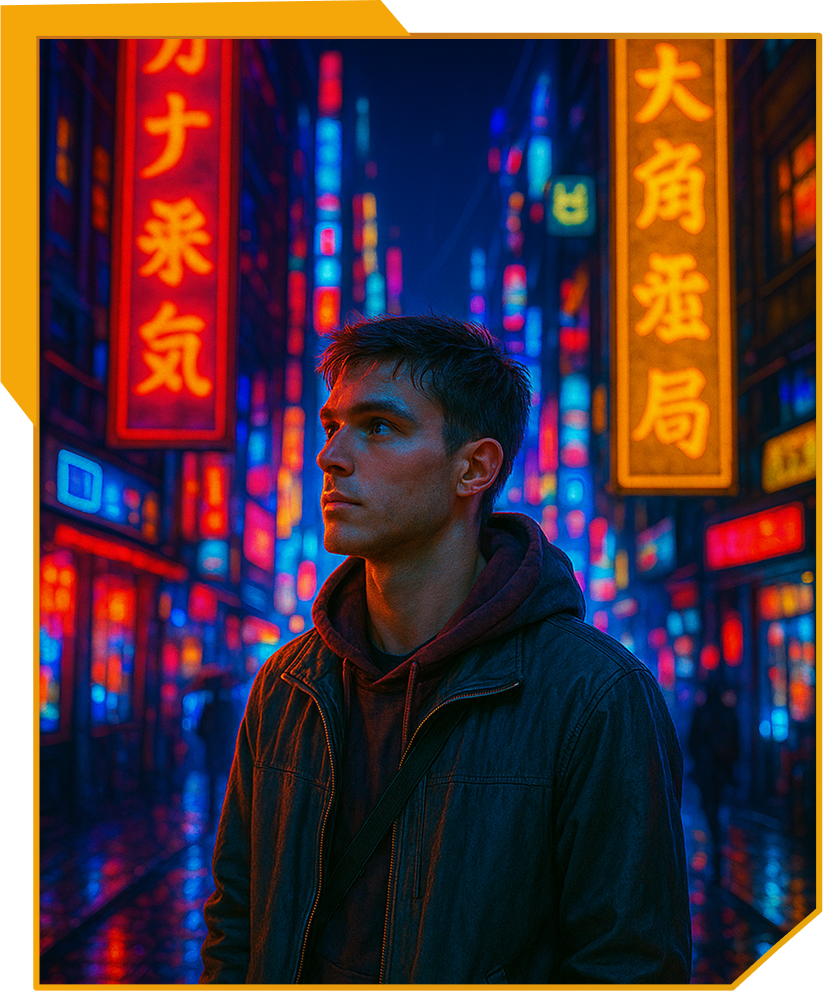
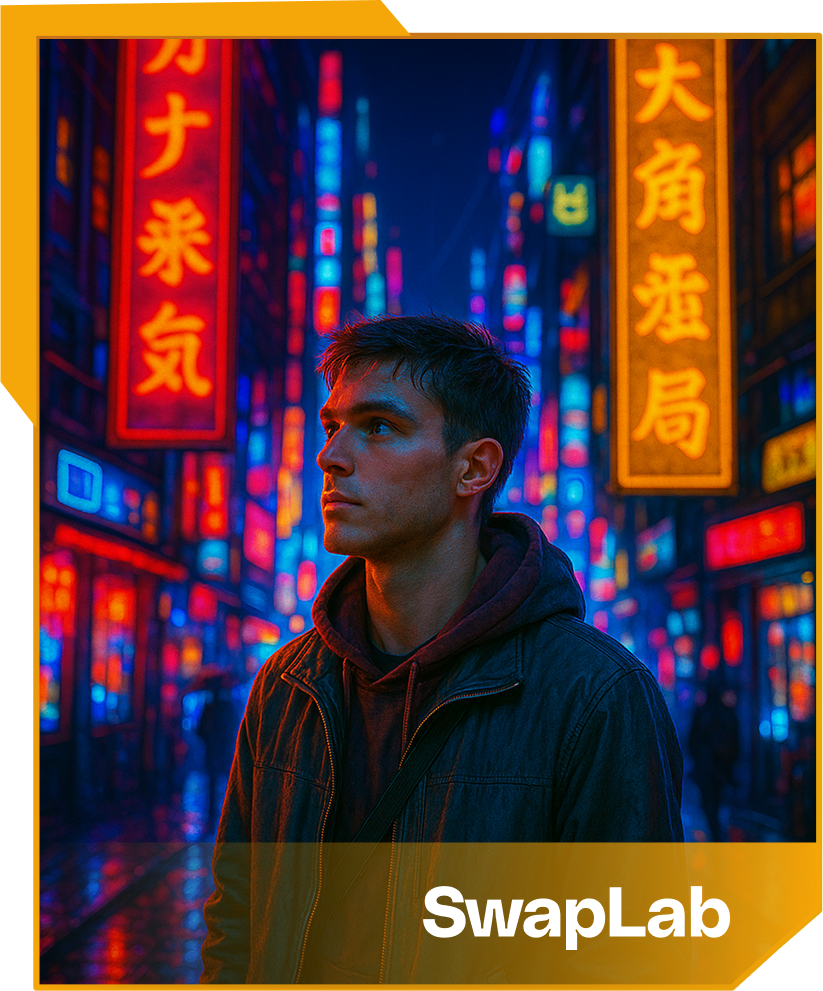
Working Fine

Changed region(s): [[0.1823, 0.8476, 1.0, 0.999]]

diff --git a/lib/presentation/loading_screen.dart b/lib/presentation/loading_screen.dart
@@ -51,7 +51,7 @@ class _LoadingScreenState extends State<LoadingScreen> {
   //   });
   // }
 
-  Future<void> _processImage() async {
+ Future<void> _processImage() async {
     try {
       final provider = Provider.of<PhotoboothProvider>(context, listen: false);
       final globalSettings =
@@ -137,8 +137,10 @@ class _LoadingScreenState extends State<LoadingScreen> {
       final characterNumber = Random().nextInt(4) + 1;
       final characterImageName =
           '${gender == 'male' ? 'm' : 'f'}$characterNumber.png';
+      
+      // MODIFIED: Construct a relative path for the theme character image.
       final characterImagePath =
-          'C:\\storage\\themes\\$gender\\$themeName\\$characterImageName';
+          'themes/$gender/$themeName/$characterImageName';
 
       final outputPathPrefix =
           LocalStorageService.instance.getOutputPathPrefix();
@@ -146,6 +148,8 @@ class _LoadingScreenState extends State<LoadingScreen> {
       if (ComfyApiService.isInitialized) {
         try {
           final workflow = await Workflow.getWorkflow('swaplab.json');
+          
+          // These methods now receive relative paths
           workflow.updateInputImagePath(faceImagePath, nodeId: '35');
           workflow.updateSwaplabCharacterImage(characterImagePath);
           workflow.updateOutputImagePath(outputPathPrefix, nodeId: '37');
@@ -339,7 +343,6 @@ class _LoadingScreenState extends State<LoadingScreen> {
       });
     }
   }
-
   // Future<void> _initializeVideoPlayer(LoadingScreenProvider settings) async {
   //   if (settings.loaderFilePath == null) return;
 

diff --git a/lib/presentation/output_screen.dart b/lib/presentation/output_screen.dart
@@ -36,7 +36,7 @@ class _SwappedFaceScreenState extends State<SwappedFaceScreen> {
     }
   }
 
-  Future<void> _processImage() async {
+   Future<void> _processImage() async {
     try {
       final provider = Provider.of<PhotoboothProvider>(context, listen: false);
 
@@ -60,7 +60,7 @@ class _SwappedFaceScreenState extends State<SwappedFaceScreen> {
     }
   }
 
-  @override
+   @override
   Widget build(BuildContext context) {
     final outputSettings = Provider.of<OutputScreenProvider>(context);
     final globalSettings = Provider.of<GlobalSettingsProvider>(context);
@@ -256,9 +256,9 @@ class _SwappedFaceScreenState extends State<SwappedFaceScreen> {
     if (imageUrl != null) {
       // Check if we're in offline mode and if the image is a local file path
       if (globalSettings.isOfflineMode && !imageUrl.startsWith('http')) {
-        // Display local file image
+        // MODIFIED: Use File.fromUri(Uri.file(path)) to correctly handle local file paths on Windows.
         return Image.file(
-          File(imageUrl),
+          File.fromUri(Uri.file(imageUrl)),
           fit: BoxFit.contain,
           errorBuilder: (context, error, stackTrace) {
             debugPrint('Error loading local image: $error');

diff --git a/lib/api/workflow.dart b/lib/api/workflow.dart
@@ -27,13 +27,13 @@ class Workflow {
   void updateInputImagePath(String path, {String nodeId = '289'}) {
     if (_workflow.containsKey(nodeId) &&
         _workflow[nodeId].containsKey('inputs')) {
-      _workflow[nodeId]['inputs']['image_path'] = path;
+      _workflow[nodeId]['inputs']['image_path'] = path.replaceAll(r'\', '/');
     }
   }
 
   void updateSwaplabCharacterImage(String path) {
     if (_workflow.containsKey('36') && _workflow['36'].containsKey('inputs')) {
-      _workflow['36']['inputs']['image_path'] = path;
+      _workflow['36']['inputs']['image_path'] = path.replaceAll(r'\', '/');
     }
   }
 
@@ -42,7 +42,7 @@ class Workflow {
   void updateOutputImagePath(String path, {String nodeId = '288'}) {
     if (_workflow.containsKey(nodeId) &&
         _workflow[nodeId].containsKey('inputs')) {
-      _workflow[nodeId]['inputs']['path'] = path;
+      _workflow[nodeId]['inputs']['path'] = path.replaceAll(r'\', '/');
     }
   }
 

diff --git a/lib/services/local_storage_service.dart b/lib/services/local_storage_service.dart
@@ -77,7 +77,8 @@ class LocalStorageService {
       // Copy the file to the input directory
       await imageFile.copy(destinationPath);
 
-      return destinationPath;
+      // MODIFIED: Return the relative path for the API
+      return 'input/$fileName';
     } catch (e) {
       debugPrint('Error saving face image: $e');
       rethrow;
@@ -91,7 +92,8 @@ class LocalStorageService {
     }
 
     final timestamp = DateTime.now().millisecondsSinceEpoch.toString();
-    return path.join(_outputDirectory, 'output_$timestamp.png');
+    // MODIFIED: Return the relative path for the API
+    return 'output/output_$timestamp.png';
   }
 
   // Check for new output image

diff --git a/lib/presentation/theme_selection_screen.dart b/lib/presentation/theme_selection_screen.dart
@@ -28,16 +28,6 @@ class _ThemeSelectionScreenState extends State<ThemeSelectionScreen> {
     return Scaffold(
       extendBodyBehindAppBar: true,
       appBar: AppBar(
-        title: settings.showTitle
-            ? Text(
-                settings.titleText,
-                style: TextStyle(
-                  color: settings.titleColor,
-                  fontSize: settings.titleFontSize,
-                  fontWeight: settings.titleFontWeight,
-                ),
-              )
-            : null,
         backgroundColor: Colors.transparent,
         elevation: 0,
         leading: IconButton(

diff --git a/lib/main.dart b/lib/main.dart
@@ -1,3 +1,4 @@
+import 'package:bitsdojo_window/bitsdojo_window.dart';
 import 'package:camera_platform_interface/camera_platform_interface.dart';
 import 'package:camera_windows/camera_windows.dart';
 import 'package:flutter/material.dart';
@@ -97,6 +98,14 @@ void main() async {
       child: const MyApp(),
     ),
   );
+
+  doWhenWindowReady(() {
+    const initialSize = Size(1080, 1920);
+    appWindow.minSize = initialSize;
+    appWindow.size = initialSize;
+    appWindow.alignment = Alignment.center;
+    appWindow.show();
+  });
 }
 
 class MyApp extends StatefulWidget {

diff --git a/lib/providers/global_settings_provider.dart b/lib/providers/global_settings_provider.dart
@@ -96,8 +96,8 @@ class GlobalSettingsProvider with ChangeNotifier {
   // Initialize default directories for offline mode
   Future<void> _initializeOfflineDirectories() async {
     // Set fixed paths for input and output directories
-    _inputDirectory = "C:\\eventbooth_app\\storage\\input";
-    _outputDirectory = "C:\\eventbooth_app\\storage\\output";
+    _inputDirectory = "C:\\storage\\input";
+    _outputDirectory = "C:\\storage\\output";
 
     // Create directories if they don't exist
     final inputDir = Directory(_inputDirectory!);

diff --git a/lib/presentation/face_capture_screen.dart b/lib/presentation/face_capture_screen.dart
@@ -384,10 +384,11 @@ class _FaceCaptureScreenState extends State<FaceCaptureScreen> {
     }
 
     if (!_cameraInitialized || _controller == null) {
-      return Center(
-        child: CircularProgressIndicator(
-          color: settings.previewBorderColor,
-        ),
+      return const Center(
+        child: SizedBox(),
+        // child: CircularProgressIndicator(
+        //   color: settings.previewBorderColor,
+        // ),
       );
     }
 

diff --git a/windows/runner/main.cpp b/windows/runner/main.cpp
@@ -1,3 +1,5 @@
+#include <bitsdojo_window_windows/bitsdojo_window_plugin.h>
+auto bdw = bitsdojo_window_configure(BDW_CUSTOM_FRAME | BDW_HIDE_ON_STARTUP);
 #include <flutter/dart_project.h>
 #include <flutter/flutter_view_controller.h>
 #include <windows.h>
